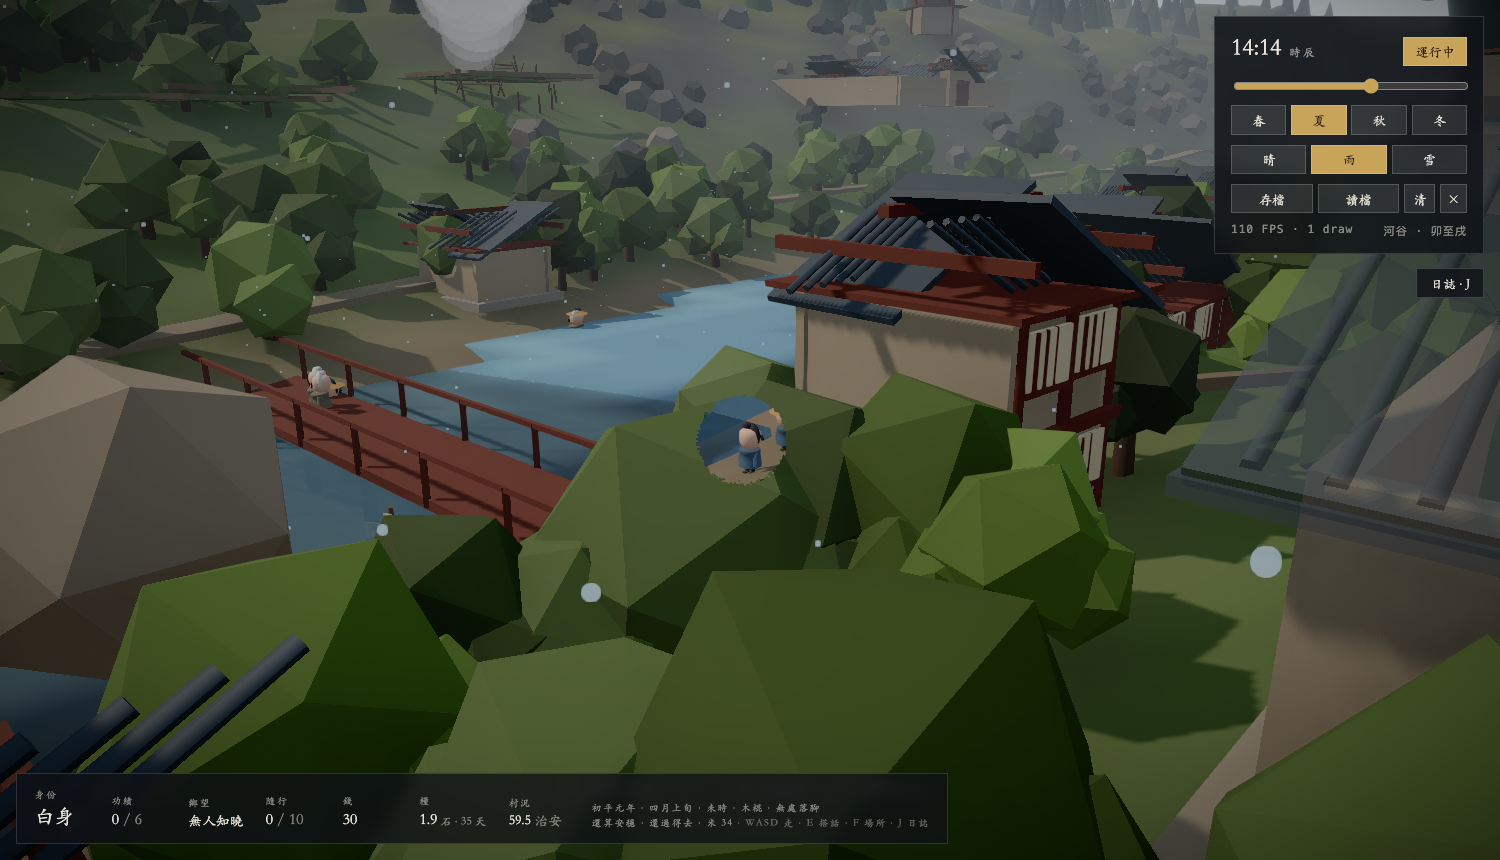
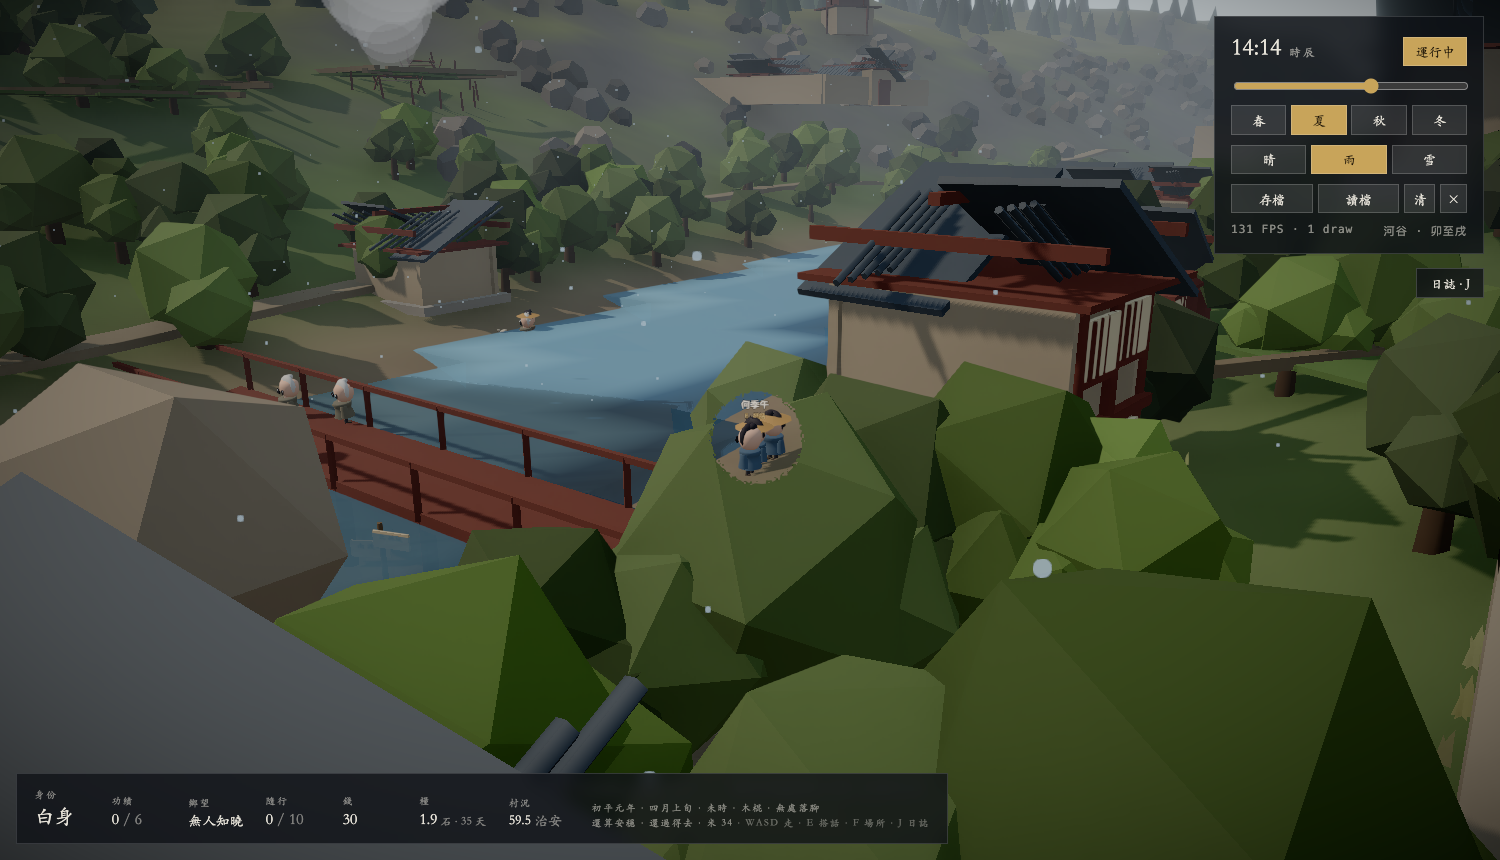
腳邊有東西了:草叢與河灘的石子,只鋪鏡頭周圍那一圈
遠景一直是好看的:層林、河、屋頂。可鏡頭一壓低,地面就是一整片沒有東西
的顏色 —— 一個人站在一塊純色的板子上,走十步和走一步看起來一樣。

做法和落葉雨雪同一套:只鋪鏡頭周圍 ±16 格(約 23 步)。位置由格子座標
的雜湊定死,不是每次重生就重擲 —— 那樣草會跟著你爬。走開再走回來,
那叢草還在原地。人跡重的地方稀疏(踩禿了),石子只長在河灘。

一路踩到的四個坑,每個都讓草看起來像壞了:

一、開了 vertexColors 而幾何沒有 color 屬性。顏色是每叢一個(instanceColor),
    不是烘在頂點上的 —— 著色器照樣去乘那個不存在的屬性,WebGL 給的是
    (0,0,0),於是整片草是純黑的。怎麼調光都沒用,因為根本不是光的問題。
    (人的身體是另一套:那邊顏色真的烘在頂點裡,所以那邊要開。)
二、法線用 computeVertexNormals 算是垂直葉面的,背光那面整片黑,
    三片交錯的葉子總有一兩片背著太陽。法線一律造假朝上,草就和它長的
    那塊地吃同一份光。而且不能靠 side: DoubleSide —— 背面 three 會把
    法線翻過來,翻完朝下又是黑的,得自己補反繞序的三角形。
三、地形網格一格 1.73 公尺,擺放讀的是解析高度函式,兩者在起伏處差得出
    十幾二十公分 —— 樹和房子夠高看不出來,一叢三十公分的草整叢埋進坡裡。
    葉根紮到地面以下,再把整叢抬高一點。
四、和地面同色等於沒鋪。草比腳下那塊地亮一截才讀得出來;亮度直接乘
    (線性空間),不走 offsetHSL —— 那個函式內部就是本批第一個 bug。

成本:一千格重鋪一次 1.9 毫秒(篩子從便宜排到貴,slopeAt 內部要再問四次
terrainHeight 所以放最後),走一步就重鋪一次。__groundCover 掛在 window 上,
scenery.mjs 每次都量,超過四毫秒就會叫。

diff --git a/src/world/GroundCover.tsx b/src/world/GroundCover.tsx
@@ -1,0 +1,236 @@
+import { useMemo, useRef } from 'react';
+import { useFrame, useThree } from '@react-three/fiber';
+import * as THREE from 'three';
+import { mergeGeometries } from 'three/examples/jsm/utils/BufferGeometryUtils.js';
+import {
+  terrainHeight, slopeAt, riverMask, humanMask, waterLevel,
+} from './field';
+import { paletteFor, useClock } from './worldTime';
+import { jitteredColor, rngGate } from './palette';
+
+/**
+ * 腳邊的東西 —— 草叢、碎石、斷枝。
+ *
+ * 遠景一直是好看的:層林、河、屋頂。可鏡頭一壓低,地面就是<b>一整片
+ * 沒有東西的顏色</b> —— 一個人站在一塊純色的板子上。差的不是貼圖,
+ * 是「人這麼高的尺度上什麼都沒有」:沒有一叢草、沒有一顆石子,
+ * 所以走十步和走一步看起來一樣,腳下沒有速度感。
+ *
+ * 做法和落葉、雨雪同一套:<b>只鋪鏡頭周圍那一圈</b>。滿世界撒到這個
+ * 密度是二十萬個實例,而人一次只看得到腳邊那三十步。
+ *
+ * 位置<b>不能每次重生就重擲</b> —— 那樣草會跟著你爬。這裡用格子:
+ * 世界被切成 CELL 見方的格,每格的草長在哪、多高、什麼顏色,
+ * 全由格子座標的雜湊定死。你走開再走回來,那叢草還在原地。
+ */
+
+const CELL = 1.45;              // 一格一叢
+const RING = 16;                // 鏡頭周圍 ±16 格 ≈ 23 步
+const MAX = (RING * 2 + 1) ** 2;
+
+/**
+ * 一叢草 = 三片交錯的葉子。
+ *
+ * 葉子是<b>上窄下寬的尖片</b>,不是矩形 —— 沒有貼圖的矩形近看就是一張
+ * 綠卡片,而尖頭是「草」這個字的全部。三片交錯開,從任何角度看都不是一張紙。
+ */
+function bladeGeom(w: number, h: number, lean: number): THREE.BufferGeometry {
+  /*
+   * 葉根紮到地面<b>以下</b>。
+   *
+   * 地形網格一格 1.73 公尺,而擺放讀的是解析高度函式 —— 兩者在起伏處差得出
+   * 十幾二十公分。樹和房子夠高看不出來,一叢三十公分的草就整叢埋進坡裡:
+   * 第一版鋪了八百多叢,畫面上只剩零星幾根黑刺露在外面(而且看起來像壞了)。
+   * 根紮深一截,再把整叢抬高一點,兩頭的誤差就都吃得下。
+   */
+  const root = -0.16;
+  const v = [
+    -w, root, 0, w, root, 0, w * 0.42, h * 0.55, lean * 0.4,
+    -w, root, 0, w * 0.42, h * 0.55, lean * 0.4, -w * 0.42, h * 0.55, lean * 0.4,
+    -w * 0.42, h * 0.55, lean * 0.4, w * 0.42, h * 0.55, lean * 0.4, 0, h, lean,
+  ];
+  /*
+   * 正反面各鋪一份三角形,而不是用 side: DoubleSide。
+   *
+   * 因為法線是<b>造假朝上</b>的(見下),而 DoubleSide 的背面 three 會
+   * 自動把法線翻過來 —— 翻完就朝下,一整面不受光,於是俯視一叢草是
+   * 幾根黑刺。自己把背面補齊(反繞序),兩面就都朝上了。
+   *
+   * 法線朝上而不是垂直葉面:草該和它長的那塊地吃同一份光。
+   * 用真法線的話,三片交錯的葉子總有一兩片背著太陽,一叢草黑一半。
+   * 這是所有葉片卡都用的那一招。
+   */
+  const pos = new Float32Array(v.length * 2);
+  pos.set(v, 0);
+  for (let t = 0; t < 3; t++) {
+    const b = t * 9;
+    // 反繞序:第二、三個頂點對調
+    for (const [k, src] of [[0, 0], [1, 2], [2, 1]] as Array<[number, number]>) {
+      pos[v.length + b + k * 3] = v[b + src * 3];
+      pos[v.length + b + k * 3 + 1] = v[b + src * 3 + 1];
+      pos[v.length + b + k * 3 + 2] = v[b + src * 3 + 2];
+    }
+  }
+  const n = new Float32Array(pos.length);
+  for (let i = 1; i < n.length; i += 3) n[i] = 1;
+  const g = new THREE.BufferGeometry();
+  g.setAttribute('position', new THREE.BufferAttribute(pos, 3));
+  g.setAttribute('normal', new THREE.BufferAttribute(n, 3));
+  return g;
+}
+
+function tuftGeom(): THREE.BufferGeometry {
+  const gs: THREE.BufferGeometry[] = [];
+  for (let i = 0; i < 3; i++) {
+    gs.push(bladeGeom(0.10, 0.32 + i * 0.06, (i - 1) * 0.08).rotateY((i / 3) * Math.PI));
+  }
+  return mergeGeometries(gs, false)!;
+}
+
+/** 碎石與斷枝共用一份 —— 一顆壓扁的多面體,躺著是石頭,立起來是枝子。 */
+function grittGeom(): THREE.BufferGeometry {
+  const g = new THREE.DodecahedronGeometry(0.11, 0);
+  g.scale(1, 0.55, 1.25);
+  return g;
+}
+
+/**
+ * 這一格該不該有東西,有的話長在哪。
+ *
+ * 排除的地方都是有理由的:水底下不長草;陡坡上是裸岩(而且草會穿出斜面);
+ * 人跡重的地方(村心、路、場院)踩禿了 —— 那一條讓村子和野地看起來不一樣,
+ * 比多撒一萬叢草有用。
+ */
+function pick(cx: number, cz: number) {
+  const h0 = rngGate(cx * 1.7 + 0.3, cz * 2.3 - 0.7);
+  const x = (cx + 0.5 + (h0 - 0.5) * 0.9) * CELL;
+  const h1 = rngGate(cx * 3.1 - 1.9, cz * 1.3 + 2.7);
+  const z = (cz + 0.5 + (h1 - 0.5) * 0.9) * CELL;
+  /*
+   * 篩的順序 = 從便宜到貴。
+   *
+   * slopeAt 內部要再問四次 terrainHeight,是這裡最貴的一項,所以放最後 ——
+   * 能被水位和人跡帶刷掉的格子,就別再為它算一次坡度。
+   * 一千格重鋪一次 2.3 毫秒,而走一步就重鋪一次,順序是白撿的。
+   */
+  const y = terrainHeight(x, z);
+  if (y < waterLevel() + 0.05) return null;
+  const hm = humanMask(x, z);
+  // 人跡帶<b>稀疏而不是清空</b> —— 全清的話村子四周會出現一圈突兀的光板。
+  // 門檻也不能訂得太狠:第一版 729 格只長得出 84 叢,等於沒鋪
+  if (hm > 0.30 && h0 > 0.62 - hm * 0.45) return null;
+  if (slopeAt(x, z) > 0.46) return null;
+  return { x, y, z, h0, h1 };
+}
+
+export function GroundCover() {
+  const season = useClock((s) => s.season);
+  const weather = useClock((s) => s.weather);
+  const p = useMemo(() => paletteFor(season), [season]);
+  /*
+   * 草比它腳下那塊地亮一截。
+   *
+   * 同色的話一叢草和地面在畫面上是同一片顏色,鋪了八百叢等於沒鋪。
+   * 亮度直接乘(線性空間),不走 offsetHSL —— 那個函式內部
+   * getHSL 讀線性、setHSL 寫 sRGB,兩個空間不一樣,調出來的量不是你想的量。
+   */
+  const tint = useMemo(() => ({
+    grass: p.grass.clone().multiplyScalar(1.5),
+    dry: p.dry.clone().multiplyScalar(1.35),
+  }), [p]);
+  const { camera } = useThree();
+
+  const tuft = useRef<THREE.InstancedMesh>(null);
+  const grit = useRef<THREE.InstancedMesh>(null);
+  const geoms = useMemo(() => ({ tuft: tuftGeom(), grit: grittGeom() }), []);
+  const tmp = useMemo(() => ({ o: new THREE.Object3D() }), []);
+  /** 上次重鋪時鏡頭在哪一格 —— 沒換格就不必重算。 */
+  const last = useRef({ cx: NaN, cz: NaN, season: '', weather: '' });
+
+  useFrame(() => {
+    const tm = tuft.current, gm = grit.current;
+    if (!tm || !gm) return;
+    const cx = Math.round(camera.position.x / CELL);
+    const cz = Math.round(camera.position.z / CELL);
+    const st = last.current;
+    if (cx === st.cx && cz === st.cz && season === st.season && weather === st.weather) return;
+    last.current = { cx, cz, season, weather };
+    const t0 = performance.now();
+
+    // 冬雪蓋住草,只剩石頭露頭 —— 「季節」在腳邊也要算數
+    const buried = weather === 'snow';
+    let nT = 0, nG = 0;
+    for (let dx = -RING; dx <= RING; dx++) {
+      for (let dz = -RING; dz <= RING; dz++) {
+        const s = pick(cx + dx, cz + dz);
+        if (!s) continue;
+        /*
+         * 石子只長在河灘。
+         *
+         * 第一版是「五分之一是石子」,結果青草地上均勻散著一顆顆深色扁球,
+         * 讀起來不是石頭是垃圾。石頭該有石頭的地方:近水多、內陸幾乎沒有。
+         */
+        const stony = s.h1 < 0.04 + riverMask(s.x, s.z) * 0.55;
+        if (!stony && buried) continue;
+        // 抬高一點點:網格在凹處高於解析面,不抬的話草根露不出來
+        tmp.o.position.set(s.x, s.y + 0.05, s.z);
+        tmp.o.rotation.set(0, s.h0 * Math.PI * 2, 0);
+        if (stony) {
+          tmp.o.scale.setScalar(0.55 + s.h0 * 1.0);
+          tmp.o.updateMatrix();
+          if (nG < MAX) {
+            gm.setMatrixAt(nG, tmp.o.matrix);
+            // 用河泥色不用山岩色 —— 河灘的卵石是淺的,深灰擺在草上像塊煤
+            gm.setColorAt(nG, jitteredColor(p.silt, s.x, s.z, 0.006, 0.06, 0.12));
+            nG++;
+          }
+        } else {
+          const k = 0.6 + s.h1 * 0.9;
+          tmp.o.scale.set(k, k * (0.7 + s.h0 * 0.8), k);
+          tmp.o.updateMatrix();
+          if (nT < MAX) {
+            tm.setMatrixAt(nT, tmp.o.matrix);
+            // 草色在青與枯之間,按位置雜湊挑 —— 一片草地不是一種綠
+            const base = s.h0 < 0.42 ? tint.dry : tint.grass;
+            tm.setColorAt(nT, jitteredColor(base, s.x, s.z, 0.014, 0.10, 0.09));
+            nT++;
+          }
+        }
+      }
+    }
+    tm.count = nT; gm.count = nG;
+    tm.instanceMatrix.needsUpdate = true;
+    gm.instanceMatrix.needsUpdate = true;
+    if (tm.instanceColor) tm.instanceColor.needsUpdate = true;
+    if (gm.instanceColor) gm.instanceColor.needsUpdate = true;
+    // 原型階段的把手:重鋪一次要多久。走一步就重鋪的東西,這個數字是它的成本
+    (window as unknown as Record<string, unknown>).__groundCover =
+      { ms: +(performance.now() - t0).toFixed(2), tufts: nT, grit: nG };
+  });
+
+  return (
+    <>
+      <instancedMesh
+        ref={tuft} args={[geoms.tuft, undefined, MAX]} frustumCulled={false}
+      >
+        {/*
+          * 底色<b>必須是白</b>、而且<b>不能開 vertexColors</b>。
+          *
+          * 顏色是每叢一個(instanceColor),不是烘在頂點上的。開了 vertexColors
+          * 而幾何沒有 color 屬性,著色器照樣去乘那個屬性 —— WebGL 給的是
+          * (0,0,0) —— 於是整片草是純黑的。畫面上讀作「地上長了一叢叢黑刺」,
+          * 而且怎麼調光都沒用,因為它根本不是光的問題。
+          * (人的身體是另一套:那邊顏色真的烘在頂點裡,所以那邊要開。)
+          *
+          * 草不投影 —— 幾百叢各投一份陰影,換來的是看不見的差別和一半的幀。
+          */}
+        <meshStandardMaterial roughness={1} />
+      </instancedMesh>
+      <instancedMesh
+        ref={grit} args={[geoms.grit, undefined, MAX]} frustumCulled={false}
+      >
+        <meshStandardMaterial roughness={0.95} flatShading />
+      </instancedMesh>
+    </>
+  );
+}

diff --git a/src/App.tsx b/src/App.tsx
@@ -13,6 +13,7 @@ import {
 import { Birds, Chickens, Dogs, FishSplash, TavernFlag } from './world/Life';
 import { Details } from './world/Details';
 import { Herbs } from './world/Herbs';
+import { GroundCover } from './world/GroundCover';
 import { Sickbeds } from './world/Sickbeds';
 import { Landmarks } from './world/Landmarks';
 import { Farmland, Roads } from './world/Landuse';
@@ -511,6 +512,7 @@ export default function App() {
           <FishSplash />
           <TavernFlag />
           <Details />
+          <GroundCover />
           <Herbs />
           <Sickbeds />
           <Lanterns />
